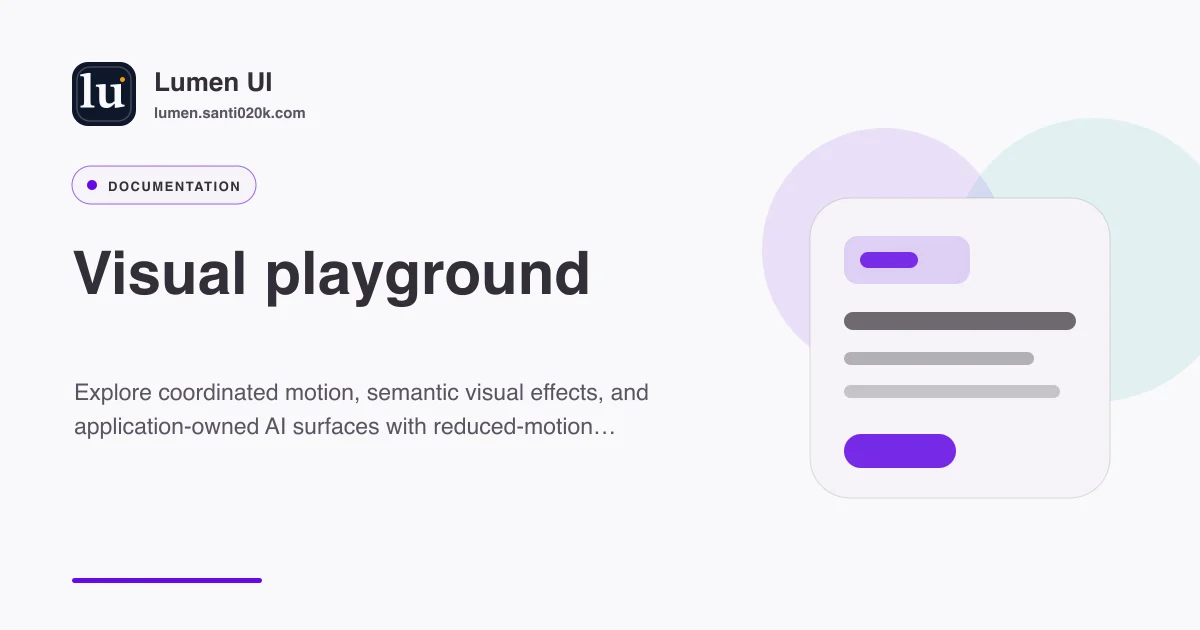
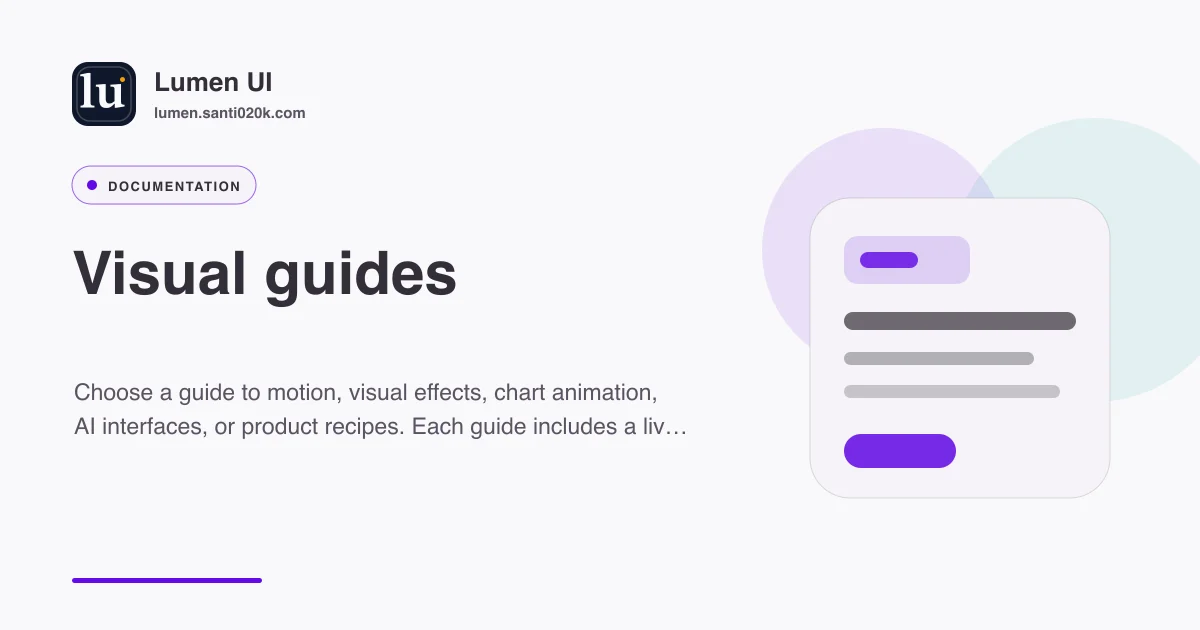
fix(docs): polish visual guide navigation and simplify overview

Changed region(s): [[0.2158, 0.3921, 0.4933, 0.4825], [0.0617, 0.6635, 0.555, 0.6937], [0.0617, 0.6032, 0.555, 0.6333]]

diff --git a/tests/a11y/visual-playground.spec.ts b/tests/a11y/visual-playground.spec.ts
@@ -4,7 +4,7 @@ for (const width of [390, 1280]) {
   for (const theme of ['light', 'dark']) {
     test(`visual playground keeps styled controls and responsive comparisons at ${width}px in ${theme}`, async ({ page }) => {
       await page.setViewportSize({ width, height: 900 })
-      await page.goto('/docs/visual-playground')
+      await page.goto('/docs/visual-playground/motion')
       await page.evaluate(value => { document.documentElement.dataset.theme = value }, theme)
       const reverse = page.getByRole('button', { name: 'Reverse order', exact: true })
 
@@ -45,7 +45,7 @@ for (const width of [390, 1280]) {
 
 test('visual playground remains usable with reduced motion', async ({ page }) => {
   await page.emulateMedia({ reducedMotion: 'reduce' })
-  await page.goto('/docs/visual-playground')
+  await page.goto('/docs/visual-playground/motion')
   await page.getByRole('button', { name: 'Reverse order', exact: true }).press('Enter')
   const list = page.locator('.visual-motion-list').first()
 
@@ -60,10 +60,10 @@ for (const width of [390, 1280]) {
   test.describe(`playground interactions at ${width}px`, () => {
     test.beforeEach(async ({ page }) => {
       await page.setViewportSize({ width, height: 900 })
-      await page.goto('/docs/visual-playground')
     })
 
     test('motion controls, tabs, disclosure and feedback', async ({ page }) => {
+      await page.goto('/docs/visual-playground/motion')
       const section = page.getByRole('region', { name: 'Coordinated motion', exact: true })
       const items = section.getByRole('list', { name: 'Animated tasks' }).getByRole('listitem')
 
@@ -95,6 +95,7 @@ for (const width of [390, 1280]) {
     })
 
     test('all effects, intensity, animation and framework examples', async ({ page, context }) => {
+      await page.goto('/docs/visual-playground/effects')
       await context.grantPermissions(['clipboard-read', 'clipboard-write'])
       const section = page.getByRole('region', { name: 'Visual effects', exact: true })
 
@@ -122,6 +123,7 @@ for (const width of [390, 1280]) {
     })
 
     test('charts update, recover from empty and reset loading', async ({ page }) => {
+      await page.goto('/docs/visual-playground/charts')
       const section = page.getByRole('region', { name: 'Live chart continuity', exact: true })
 
       const plots = section.locator('[data-ui-chart-interaction-plot]')
@@ -156,6 +158,7 @@ for (const width of [390, 1280]) {
     })
 
     test('AI send, stop, retry, disclosure and approvals', async ({ page }) => {
+      await page.goto('/docs/visual-playground/ai')
       const section = page.getByRole('region', { name: 'AI surfaces', exact: true })
 
       await expect(section.getByRole('button', { name: 'Reset proposal' })).toBeDisabled()
@@ -179,6 +182,7 @@ for (const width of [390, 1280]) {
     })
 
     test('all recipes with keyboard commands and editable onboarding', async ({ page }) => {
+      await page.goto('/docs/visual-playground/recipes')
       const section = page.getByRole('region', { name: 'Installable product blocks', exact: true })
 
       await section.getByRole('button', { name: 'Annual', exact: true }).click()
@@ -235,7 +239,7 @@ for (const width of [390, 1280]) {
 
 test('aurora visibly moves, pauses in place, resumes and replays', async ({ page }) => {
   await page.emulateMedia({ reducedMotion: 'no-preference' })
-  await page.goto('/docs/visual-playground#effects-workbench')
+  await page.goto('/docs/visual-playground/effects')
   const section = page.getByRole('region', { name: 'Visual effects', exact: true })
   const previews = section.locator('[data-ui-visual-effect]')
   const transform = () => previews.first().evaluate(element => getComputedStyle(element, '::before').transform)
@@ -263,7 +267,7 @@ test('aurora visibly moves, pauses in place, resumes and replays', async ({ page
 
 test('line, area and bar geometry interpolate while the comparison and table update immediately', async ({ page }) => {
   await page.emulateMedia({ reducedMotion: 'no-preference' })
-  await page.goto('/docs/visual-playground#chart-workbench')
+  await page.goto('/docs/visual-playground/charts')
   const section = page.getByRole('region', { name: 'Live chart continuity', exact: true })
 
   await section.getByLabel('Transition · milliseconds').fill('2000')
@@ -300,12 +304,13 @@ test('line, area and bar geometry interpolate while the comparison and table upd
 
 test('system reduced motion suppresses effects and every chart animation', async ({ page }) => {
   await page.emulateMedia({ reducedMotion: 'reduce' })
-  await page.goto('/docs/visual-playground')
+  await page.goto('/docs/visual-playground/effects')
   const effects = page.getByRole('region', { name: 'Visual effects', exact: true })
 
   await effects.getByRole('button', { name: 'Enable animation' }).click()
   await expect(effects.getByRole('status', { name: 'Effect playback' })).toContainText('Your system requests reduced motion')
   expect(await effects.locator('[data-ui-visual-effect]').evaluateAll(elements => elements.every(element => getComputedStyle(element, '::before').animationName === 'none'))).toBe(true)
+  await page.goto('/docs/visual-playground/charts')
   const charts = page.getByRole('region', { name: 'Live chart continuity', exact: true })
 
   await expect(charts.getByRole('button', { name: 'Play charts' })).toBeDisabled()
@@ -324,7 +329,7 @@ test('system reduced motion suppresses effects and every chart animation', async
 
 test('SVG drawing advances, pauses and replays after finishing', async ({ page }) => {
   await page.emulateMedia({ reducedMotion: 'no-preference' })
-  await page.goto('/docs/visual-playground#effects-workbench')
+  await page.goto('/docs/visual-playground/effects')
   const section = page.getByRole('region', { name: 'Visual effects', exact: true })
 
   await section.getByRole('combobox', { name: 'Effect', exact: true }).click()

diff --git a/tests/a11y/visual-guides.spec.ts b/tests/a11y/visual-guides.spec.ts
@@ -43,7 +43,7 @@ test('guide navigation replaces the demo and retains working controls on mobile'
   await page.goto('/docs/visual-playground')
   const navigation = page.getByRole('navigation', { name: 'Visual guides', exact: true })
 
-  await navigation.getByRole('link', { name: 'Motion', exact: true }).click()
+  await page.getByRole('region', { name: 'Choose a visual guide', exact: true }).getByRole('link', { name: 'Keep changes easy to follow.' }).click()
   await expect(page).toHaveURL(/\/visual-playground\/motion\/?$/)
   await page.getByRole('button', { name: 'Reverse order', exact: true }).click()
   await expect(page.locator('.visual-motion-list').first().getByRole('listitem').first()).toHaveText('Review')
@@ -55,5 +55,47 @@ test('guide navigation replaces the demo and retains working controls on mobile'
     .toBeLessThanOrEqual(1)
   await navigation.getByRole('link', { name: 'Overview', exact: true }).click()
   await expect(page.getByRole('region', { name: 'Choose a visual guide', exact: true }).getByRole('link')).toHaveCount(5)
-  await expect(page.locator('.visual-workbench > section')).toHaveCount(5)
+  await expect(page.locator('[data-visual-interactions-demo]')).toHaveCount(0)
+  await expect(navigation).toHaveCount(0)
 })
+
+for (const width of [390, 1280]) {
+  test(`guide navigation has rounded targets and breathing room at ${width}px`, async ({ page }) => {
+    await page.setViewportSize({ width, height: 900 })
+    await page.goto('/docs/visual-playground/motion')
+    const navigation = page.getByRole('navigation', { name: 'Visual guides', exact: true })
+    const active = navigation.getByRole('link', { name: 'Motion', exact: true })
+    const presentation = await active.evaluate(element => ({
+      height: element.getBoundingClientRect().height,
+      radius: Number.parseFloat(getComputedStyle(element).borderRadius)
+    }))
+
+    expect(presentation.height).toBeGreaterThanOrEqual(44)
+    expect(presentation.radius).toBeGreaterThan(0)
+    const spacing = await navigation.evaluate(element => ({
+      before: Number.parseFloat(getComputedStyle(element).marginBlockStart),
+      after: Number.parseFloat(getComputedStyle(element).marginBlockEnd)
+    }))
+
+    expect(spacing.before).toBeGreaterThan(0)
+    expect(spacing.after).toBeGreaterThan(0)
+    await active.focus()
+    await active.press('Tab')
+    await expect(navigation.getByRole('link', { name: 'Effects', exact: true })).toBeFocused()
+    await page.keyboard.press('Enter')
+    await expect(page).toHaveURL(/\/visual-playground\/effects\/?$/)
+    expect(await page.evaluate(() => document.documentElement.scrollWidth - document.documentElement.clientWidth))
+      .toBeLessThanOrEqual(1)
+  })
+}
+
+for (const [anchor, topic] of [
+  ['motion-workbench', 'motion'], ['effects-workbench', 'effects'], ['chart-workbench', 'charts'],
+  ['ai-workbench', 'ai'], ['product-blocks-workbench', 'recipes']
+] as const) {
+  test(`old ${anchor} links open the focused guide`, async ({ page }) => {
+    await page.goto(`/docs/visual-playground#${anchor}`)
+    await expect(page).toHaveURL(new RegExp(`/docs/visual-playground/${topic}/?$`))
+    await expect(page.locator('.visual-workbench > section')).toHaveCount(1)
+  })
+}

diff --git a/apps/docs/src/styles/visual-guides.css b/apps/docs/src/styles/visual-guides.css
@@ -50,9 +50,32 @@
     .visual-controls .ui-stack--horizontal { width: 100%; }
   }
 
-.visual-guide-nav { display: flex; flex-wrap: wrap; gap: var(--ui-space-related); padding-block: var(--ui-space-group); border-block: 1px solid hsl(var(--line)); }
-.visual-guide-nav a { padding: .65rem .8rem; border-radius: var(--ui-radius-md); font-size: .8125rem; }
-.visual-guide-nav a[aria-current] { background: hsl(var(--brand-soft)); color: hsl(var(--brand)); }
+/* Give the guide navigation its own space and use the shared radius tokens. */
+.visual-guide-nav {
+  display: flex;
+  flex-wrap: wrap;
+  gap: var(--ui-space-related);
+  margin-block: var(--ui-space-group) var(--ui-space-section);
+  padding: var(--ui-space-related);
+  border: 1px solid hsl(var(--line));
+  border-radius: var(--ui-radius-lg);
+  background: hsl(var(--surface));
+}
+.visual-guide-nav a {
+  display: inline-flex;
+  align-items: center;
+  justify-content: center;
+  min-height: 2.75rem;
+  padding: var(--ui-space-related) var(--ui-space-group);
+  border-radius: var(--ui-radius);
+  color: hsl(var(--ink-soft));
+  font-size: .8125rem;
+  line-height: 1.4;
+  text-decoration: none;
+}
+.visual-guide-nav a:hover { background: hsl(var(--surface-muted)); color: hsl(var(--ink)); }
+.visual-guide-nav a[aria-current] { background: hsl(var(--brand-soft)); color: hsl(var(--brand)); font-weight: 650; }
+.visual-guide-nav a:focus-visible { outline: 2px solid hsl(var(--brand)); outline-offset: 2px; }
 .visual-guide-directory { display: grid; grid-template-columns: repeat(2, minmax(0, 1fr)); gap: var(--ui-space-group); margin-block: var(--ui-space-section); }
 .visual-guide-tile { padding: var(--ui-space-group); display: grid; gap: var(--ui-space-related); }
 .visual-guide-tile h2 { font-size: 1.125rem; margin: 0; }

diff --git a/apps/docs/src/data/search.ts b/apps/docs/src/data/search.ts
@@ -214,7 +214,7 @@ const recipeItems: DocsSearchItem[] = [
     type: 'Recipe',
     href: '/docs/visual-playground',
     keywords: 'motion animation effects aurora mesh spotlight reduced motion AI prompt streaming approval',
-    title: 'Visual guides & playground',
+    title: 'Visual guides',
     description: 'Explore coordinated motion, visual effects and AI surfaces.'
   },
   ...visualGuides.map(guide => ({ category: 'Interaction', type: 'Recipe' as const, href: visualGuideHref(guide.id), keywords: normalizeKeywords(guide.label, ...guide.components), title: `${guide.label} guide`, description: guide.description })),

diff --git a/docs/visual-interactions.md b/docs/visual-interactions.md
@@ -11,8 +11,9 @@ component API links:
 - [AI interfaces](https://lumen.santi020k.com/docs/visual-playground/ai)
 - [Product recipes](https://lumen.santi020k.com/docs/visual-playground/recipes)
 
-The [visual playground](https://lumen.santi020k.com/docs/visual-playground) keeps the combined workbench
-and its original section anchors available for comparisons.
+The [visual guides overview](https://lumen.santi020k.com/docs/visual-playground) is a directory of these
+five topics. Demos and code live on the individual guides; original workbench section links open the
+corresponding guide.
 
 ## Setup and motion
 
